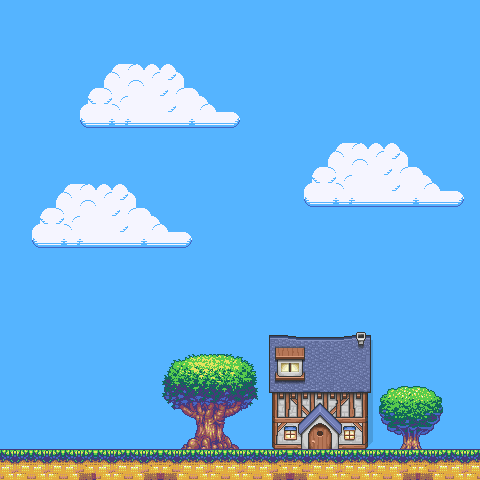
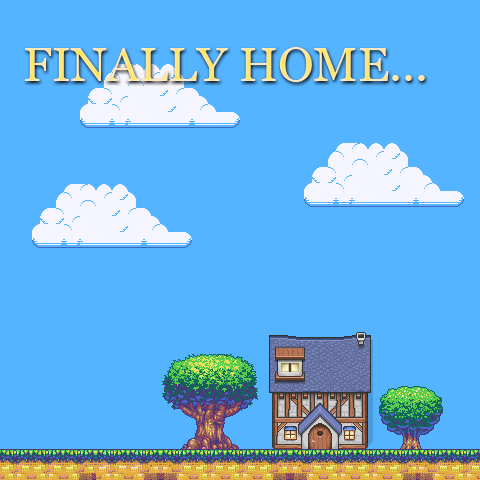
added screen and level

Changed region(s): [[0.0312, 0.0938, 0.9062, 0.1875]]

diff --git a/scripts/main.js b/scripts/main.js
@@ -13,7 +13,8 @@ var g_resources = [
     { name: "player", type: "image", src: "data/chara/player.png" },
     { name: "goblin", type: "image", src: "data/chara/goblin.png" },
     { name: "grue", type: "image", src: "data/chara/grue.png" },
-    { name: "spike", type: "image", src: "data/chara/spike.png"},
+    { name: "spike", type: "image", src: "data/chara/spike.png" },
+    { name: "end_door", type: "image", src: "data/chara/end_door.png"},
 
     // HUD sprites
     { name: "coin", type: "image", src: "data/chara/coin.png" },
@@ -48,16 +49,13 @@ var game = {
 
         /* 
             TODO:
-            BIKIN PLAYSCREEN DAN CLASSNYA
-            BIKIN TITLESCREEN DAN CLASSNYA
-            BIKIN CREDITSCREEN DAN CLASSNYA
-            BIKIN LEVEL COMPLETE SCREEN DAN CLASSNYA
-            BIKIN MAP BUAT PLAYSCREEN AWAL
+            TAMBAHIN SOUND
         */
 
         me.state.set(me.state.MENU, new TitleScreen());
         me.state.set(me.state.PLAY, new PlayScreen());
         me.state.set(me.state.GAMEOVER, new GameOverScreen());
+        me.state.set(me.state.GAME_END, new GameEndScreen());
 
         me.entityPool.add("startPlayer", PlayerEntity);
         me.entityPool.add("Coin", CoinEntity);
@@ -66,6 +64,7 @@ var game = {
         me.entityPool.add("Nyawaa", NyawaEntity);
         me.entityPool.add("Musuh", EnemyEntity);
         me.entityPool.add("Musuh2", EnemyEntity2);
+        me.entityPool.add("endObj", GameEndObj);
 
         me.gamestat.add("totalSkor", 0);
 

diff --git a/scripts/GameEndScreen.js b/scripts/GameEndScreen.js
@@ -1,0 +1,43 @@
+var GameEndScreen = me.ScreenObject.extend(
+    {
+        init: function () {
+            this.parent(true);
+            this.over = null;
+            this.font = null;
+            this.total = 0;
+        },
+
+        onResetEvent: function () {
+            if (this.over == null) {
+                this.over = me.loader.getImage("gameEndScreen");
+                this.font = new me.Font('Georgia', 24, 'black', 'left');
+            }
+
+            me.input.bindKey(me.input.KEY.ENTER, "enter", true);
+            //me.audio.play("");
+            //me.game.HUD.removeItem("skor");
+            this.total = me.gamestat.getItemValue("totalSkor");
+
+        },
+
+        update: function () {
+            if (me.input.isKeyPressed("enter")) {
+                me.state.change(me.state.MENU);
+            }
+
+            return true;
+        },
+
+        draw: function (context) {
+            context.drawImage(this.over, 0, 0);
+
+            this.font.draw(context, "PRESS ENTER TO PLAY AGAIN", 65, 170);
+            this.font.draw(context, "FINAL SCORE", 160, 240);
+            this.font.draw(context, this.total, 220, 280);
+        },
+
+        onDestroyEvent: function () {
+            me.input.unbindKey(me.input.KEY.ENTER);
+        }
+
+    });

diff --git a/index.html b/index.html
@@ -18,6 +18,8 @@
                 <script type="text/javascript" src="scripts/NyawaEntity.js"></script>
                 <script type="text/javascript" src="scripts/TitleScreen.js"></script>
                 <script type="text/javascript" src="scripts/GameOverScreen.js"></script>
+                <script type="text/javascript" src="scripts/GameEndScreen.js"></script>
+                <script type="text/javascript" src="scripts/GameEndObj.js"></script>
                 <script type="text/javascript" src="scripts/ChestEntity.js"></script>
                 <script type="text/javascript" src="scripts/SpikeEntity.js"></script>
 			</div>

diff --git a/scripts/EnemyEntity2.js b/scripts/EnemyEntity2.js
@@ -20,9 +20,11 @@
 
     onCollision: function (res, obj) {
         if (this.alive && (res.y > 0) && obj.falling) {
-            this.flicker(45);
+            
             //me.audio.play("stomp");
-            //me.game.remove(this);
+            me.game.HUD.updateItemValue("skor", 50);
+            me.gamestat.updateValue("totalSkor", 50);
+            me.game.remove(this);
             // TODO : Tambahin Skor
             // BIKIN KURANGIN NYAWA 2 POIN
         }

diff --git a/scripts/GameEndObj.js b/scripts/GameEndObj.js
@@ -1,0 +1,15 @@
+var GameEndObj = me.ObjectEntity.extend(
+    {
+        init: function (x, y, settings) {
+            settings.image = "end_door";
+            settings.spritewidth = 32;
+            this.parent(x, y, settings);
+            this.collidable = true;
+        },
+
+        onCollision: function (res, obj) {
+            
+           me.state.change(me.state.GAME_END);
+            
+        }
+    });

diff --git a/scripts/EnemyEntity.js b/scripts/EnemyEntity.js
@@ -20,7 +20,7 @@
 
     onCollision: function (res, obj) {
         if (this.alive && (res.y > 0) && obj.falling) {
-            this.flicker(45);
+            
             //me.audio.play("stomp");
             me.game.remove(this);
             // TODO : Tambahin Skor

diff --git a/scripts/NyawaEntity.js b/scripts/NyawaEntity.js
@@ -2,7 +2,7 @@
     {
         init: function (x, y, settings) {
             settings.image = "heart_small";
-            settings.spritewidth = 18;
+            settings.spritewidth = 32;
             this.parent(x, y, settings);
         },
 

diff --git a/scripts/CoinEntity.js b/scripts/CoinEntity.js
@@ -3,7 +3,7 @@
         init: function (x, y, settings) {
 
             settings.image = "coin";
-            settings.spritewidth = 12;
+            settings.spritewidth = 32;
             this.parent(x, y, settings);
         },
 
